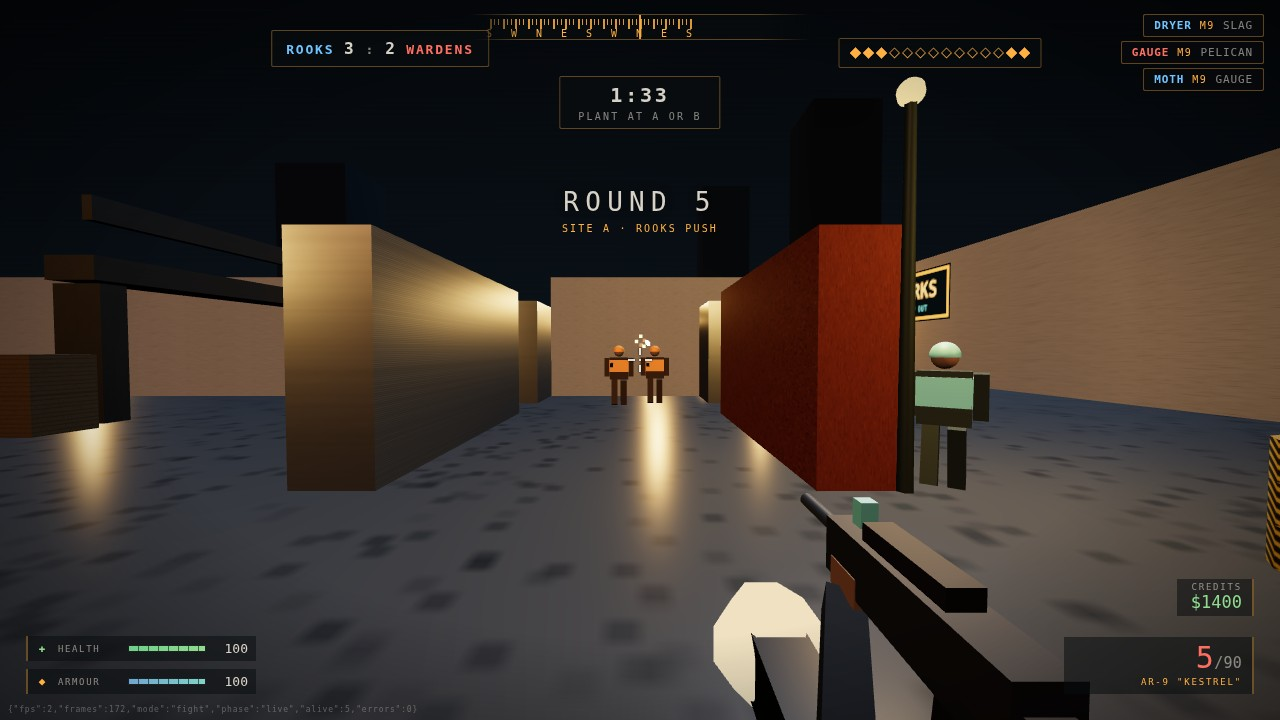
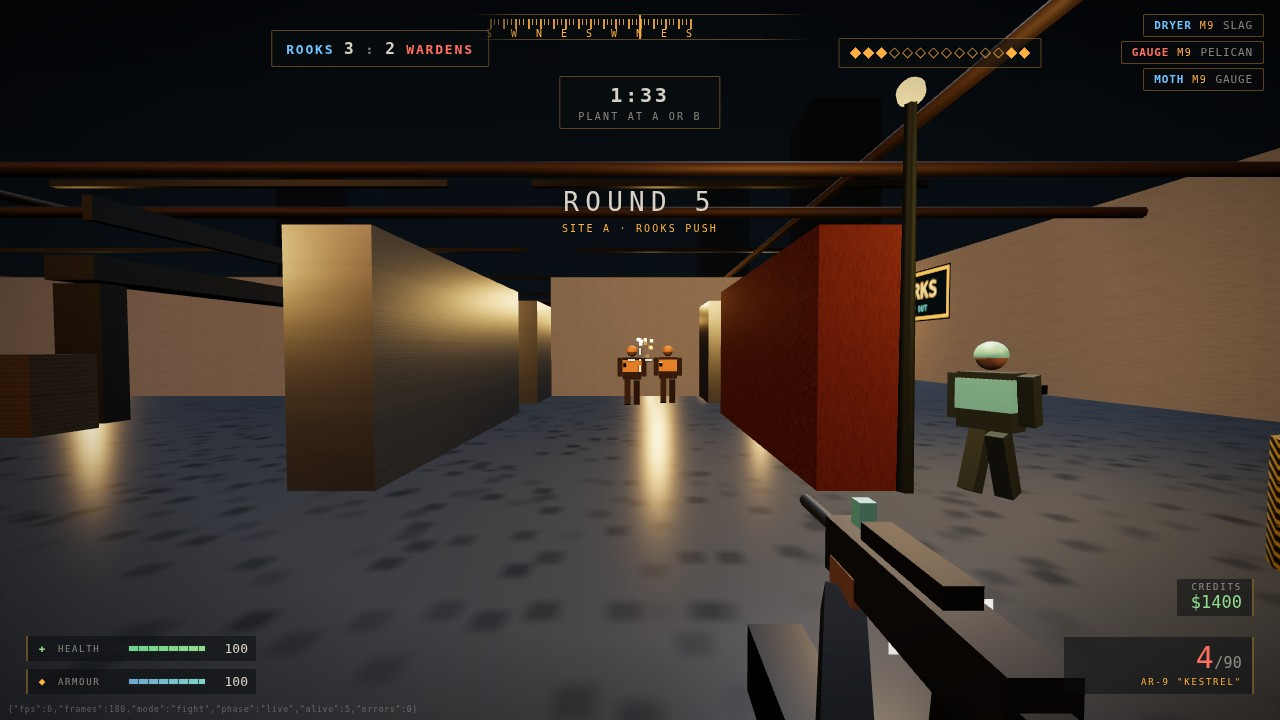
Foundry roof: overhead pipe runs and trusses over the yard; screenshots re-rendered

diff --git a/game/src/world.js b/game/src/world.js
@@ -104,6 +104,34 @@ export function buildWorld(scene) {
     scene.add(band);
   }
 
+  // Overhead pipe runs and roof trusses: silhouette above head height, nothing to collide with.
+  const pipeMat = new THREE.MeshStandardMaterial({ color: 0x5a4a3e, metalness: 0.65, roughness: 0.55 });
+  const pipeGeo = new THREE.CylinderGeometry(0.16, 0.16, 62, 8);
+  const pipeXs = [-14.5, -11.5, 12.5, 15.5];
+  for (const px of pipeXs) {
+    const pipe = new THREE.Mesh(pipeGeo, pipeMat);
+    pipe.rotation.x = Math.PI / 2;
+    pipe.position.set(px, 5.4, 0);
+    scene.add(pipe);
+  }
+  const crossGeo = new THREE.CylinderGeometry(0.13, 0.13, 62, 8);
+  for (const pz of [-22, 0, 20]) {
+    const pipe = new THREE.Mesh(crossGeo, pipeMat);
+    pipe.rotation.z = Math.PI / 2;
+    pipe.position.set(0, 5.7, pz);
+    scene.add(pipe);
+  }
+  const trussMat = new THREE.MeshStandardMaterial({ color: 0x3a3f42, metalness: 0.7, roughness: 0.5 });
+  const trussGeo = new THREE.BoxGeometry(0.22, 0.22, 0.22);
+  for (const tz of [-20, -4, 12, 26]) {
+    for (let tx = -30; tx <= 30; tx += 10) {
+      const beam = new THREE.Mesh(trussGeo, trussMat);
+      beam.scale.set(1, 1, 60);
+      beam.position.set(tx, 7.1, tz);
+      scene.add(beam);
+    }
+  }
+
   const drumGeo = new THREE.CylinderGeometry(0.42, 0.42, 0.95, 12);
   for (const [dx, dz] of [[22, -22], [31, -22], [-22, 22], [-31, 22], [6, 18], [-6, -12]]) {
     const drum = new THREE.Mesh(drumGeo, mats.hazard);
